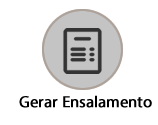
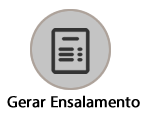
Efeitos hover.

diff --git a/LocusView/src/view/MenuPrincipal.java b/LocusView/src/view/MenuPrincipal.java
@@ -87,15 +87,55 @@ public class MenuPrincipal extends javax.swing.JFrame {
         jLabel1.setMinimumSize(new java.awt.Dimension(50, 70));
         jLabel1.setPreferredSize(new java.awt.Dimension(50, 70));
 
-        jLabel15.setIcon(new javax.swing.ImageIcon(getClass().getResource("/images/menu-superior-professor-selecionado.fw.png"))); // NOI18N
+        jLabel15.setIcon(new javax.swing.ImageIcon(getClass().getResource("/images/icon_prof.png"))); // NOI18N
+        jLabel15.addMouseListener(new java.awt.event.MouseAdapter() {
+            public void mouseEntered(java.awt.event.MouseEvent evt) {
+                jLabel15MouseEntered(evt);
+            }
+            public void mouseExited(java.awt.event.MouseEvent evt) {
+                jLabel15MouseExited(evt);
+            }
+        });
 
         jLabel16.setIcon(new javax.swing.ImageIcon(getClass().getResource("/images/icon_turma.png"))); // NOI18N
+        jLabel16.addMouseListener(new java.awt.event.MouseAdapter() {
+            public void mouseEntered(java.awt.event.MouseEvent evt) {
+                jLabel16MouseEntered(evt);
+            }
+            public void mouseExited(java.awt.event.MouseEvent evt) {
+                jLabel16MouseExited(evt);
+            }
+        });
 
         jLabel17.setIcon(new javax.swing.ImageIcon(getClass().getResource("/images/icon_sala.png"))); // NOI18N
+        jLabel17.addMouseListener(new java.awt.event.MouseAdapter() {
+            public void mouseEntered(java.awt.event.MouseEvent evt) {
+                jLabel17MouseEntered(evt);
+            }
+            public void mouseExited(java.awt.event.MouseEvent evt) {
+                jLabel17MouseExited(evt);
+            }
+        });
 
         jLabel4.setIcon(new javax.swing.ImageIcon(getClass().getResource("/images/icon_escola.png"))); // NOI18N
+        jLabel4.addMouseListener(new java.awt.event.MouseAdapter() {
+            public void mouseEntered(java.awt.event.MouseEvent evt) {
+                jLabel4MouseEntered(evt);
+            }
+            public void mouseExited(java.awt.event.MouseEvent evt) {
+                jLabel4MouseExited(evt);
+            }
+        });
 
         jLabel2.setIcon(new javax.swing.ImageIcon(getClass().getResource("/images/icon_ensalamento.png"))); // NOI18N
+        jLabel2.addMouseListener(new java.awt.event.MouseAdapter() {
+            public void mouseEntered(java.awt.event.MouseEvent evt) {
+                jLabel2MouseEntered(evt);
+            }
+            public void mouseExited(java.awt.event.MouseEvent evt) {
+                jLabel2MouseExited(evt);
+            }
+        });
 
         javax.swing.GroupLayout jPanel1Layout = new javax.swing.GroupLayout(jPanel1);
         jPanel1.setLayout(jPanel1Layout);
@@ -160,6 +200,58 @@ public class MenuPrincipal extends javax.swing.JFrame {
 
         pack();
     }// </editor-fold>//GEN-END:initComponents
+
+    private void jLabel15MouseEntered(java.awt.event.MouseEvent evt) {//GEN-FIRST:event_jLabel15MouseEntered
+        
+        // Caso o usuário passe o mouse em cima, exibe essa imagem.
+        jLabel15.setIcon(new javax.swing.ImageIcon(getClass().getResource("/images/menu-superior-professor-selecionado.fw.png")));
+    }//GEN-LAST:event_jLabel15MouseEntered
+
+    private void jLabel15MouseExited(java.awt.event.MouseEvent evt) {//GEN-FIRST:event_jLabel15MouseExited
+        
+        // Caso o usuário tire o mouse de cima, volta a exibir a imagem anterior.
+        jLabel15.setIcon(new javax.swing.ImageIcon(getClass().getResource("/images/icon_prof.png")));
+    }//GEN-LAST:event_jLabel15MouseExited
+
+    private void jLabel16MouseEntered(java.awt.event.MouseEvent evt) {//GEN-FIRST:event_jLabel16MouseEntered
+        // Caso o usuário passe o mouse em cima, exibe essa imagem.
+        jLabel16.setIcon(new javax.swing.ImageIcon(getClass().getResource("/images/menu-superior-turmas0selecionado-1.fw.png")));
+    }//GEN-LAST:event_jLabel16MouseEntered
+
+    private void jLabel16MouseExited(java.awt.event.MouseEvent evt) {//GEN-FIRST:event_jLabel16MouseExited
+        // Caso o usuário tire o mouse de cima, volta a exibir a imagem anterior.
+        jLabel16.setIcon(new javax.swing.ImageIcon(getClass().getResource("/images/icon_turma.png")));
+    }//GEN-LAST:event_jLabel16MouseExited
+
+    private void jLabel17MouseEntered(java.awt.event.MouseEvent evt) {//GEN-FIRST:event_jLabel17MouseEntered
+        // Caso o usuário passe o mouse em cima, exibe essa imagem.
+        jLabel17.setIcon(new javax.swing.ImageIcon(getClass().getResource("/images/menu-superior-salas-selecionado.fw.png")));
+    }//GEN-LAST:event_jLabel17MouseEntered
+
+    private void jLabel17MouseExited(java.awt.event.MouseEvent evt) {//GEN-FIRST:event_jLabel17MouseExited
+        // Caso o usuário tire o mouse de cima, volta a exibir a imagem anterior.
+        jLabel17.setIcon(new javax.swing.ImageIcon(getClass().getResource("/images/icon_sala.png")));
+    }//GEN-LAST:event_jLabel17MouseExited
+
+    private void jLabel4MouseEntered(java.awt.event.MouseEvent evt) {//GEN-FIRST:event_jLabel4MouseEntered
+        // Caso o usuário passe o mouse em cima, exibe essa imagem.
+        jLabel4.setIcon(new javax.swing.ImageIcon(getClass().getResource("/images/menu-superior-escola-selecionado.fw.png")));
+    }//GEN-LAST:event_jLabel4MouseEntered
+
+    private void jLabel4MouseExited(java.awt.event.MouseEvent evt) {//GEN-FIRST:event_jLabel4MouseExited
+        // Caso o usuário tire o mouse de cima, volta a exibir a imagem anterior.
+        jLabel4.setIcon(new javax.swing.ImageIcon(getClass().getResource("/images/icon_escola.png")));
+    }//GEN-LAST:event_jLabel4MouseExited
+
+    private void jLabel2MouseEntered(java.awt.event.MouseEvent evt) {//GEN-FIRST:event_jLabel2MouseEntered
+        // Caso o usuário passe o mouse em cima, exibe essa imagem.
+        jLabel2.setIcon(new javax.swing.ImageIcon(getClass().getResource("/images/menu-superior-ensalamento-selecionado.fw.png")));
+    }//GEN-LAST:event_jLabel2MouseEntered
+
+    private void jLabel2MouseExited(java.awt.event.MouseEvent evt) {//GEN-FIRST:event_jLabel2MouseExited
+        // Caso o usuário tire o mouse de cima, volta a exibir a imagem anterior.
+        jLabel2.setIcon(new javax.swing.ImageIcon(getClass().getResource("/images/icon_ensalamento.png")));
+    }//GEN-LAST:event_jLabel2MouseExited
 
     /**
      * @param args the command line arguments

diff --git a/LocusView/src/view/TelaProfessores.java b/LocusView/src/view/TelaProfessores.java
@@ -57,12 +57,47 @@ public class TelaProfessores extends javax.swing.JFrame {
         jLabel8.setIcon(new javax.swing.ImageIcon(getClass().getResource("/images/menu-superior-professor-selecionado.fw.png"))); // NOI18N
 
         jLabel9.setIcon(new javax.swing.ImageIcon(getClass().getResource("/images/icon_turma.png"))); // NOI18N
+        jLabel9.addMouseListener(new java.awt.event.MouseAdapter() {
+            public void mouseEntered(java.awt.event.MouseEvent evt) {
+                jLabel9MouseEntered(evt);
+            }
+            public void mouseExited(java.awt.event.MouseEvent evt) {
+                jLabel9MouseExited(evt);
+            }
+        });
 
         jLabel10.setIcon(new javax.swing.ImageIcon(getClass().getResource("/images/icon_sala.png"))); // NOI18N
+        jLabel10.addMouseListener(new java.awt.event.MouseAdapter() {
+            public void mouseEntered(java.awt.event.MouseEvent evt) {
+                jLabel10MouseEntered(evt);
+            }
+            public void mouseExited(java.awt.event.MouseEvent evt) {
+                jLabel10MouseExited(evt);
+            }
+            public void mousePressed(java.awt.event.MouseEvent evt) {
+                jLabel10MousePressed(evt);
+            }
+        });
 
         jLabel4.setIcon(new javax.swing.ImageIcon(getClass().getResource("/images/icon_escola.png"))); // NOI18N
+        jLabel4.addMouseListener(new java.awt.event.MouseAdapter() {
+            public void mouseEntered(java.awt.event.MouseEvent evt) {
+                jLabel4MouseEntered(evt);
+            }
+            public void mouseExited(java.awt.event.MouseEvent evt) {
+                jLabel4MouseExited(evt);
+            }
+        });
 
         jLabel2.setIcon(new javax.swing.ImageIcon(getClass().getResource("/images/icon_ensalamento.png"))); // NOI18N
+        jLabel2.addMouseListener(new java.awt.event.MouseAdapter() {
+            public void mouseEntered(java.awt.event.MouseEvent evt) {
+                jLabel2MouseEntered(evt);
+            }
+            public void mouseExited(java.awt.event.MouseEvent evt) {
+                jLabel2MouseExited(evt);
+            }
+        });
 
         javax.swing.GroupLayout jPanel1Layout = new javax.swing.GroupLayout(jPanel1);
         jPanel1.setLayout(jPanel1Layout);
@@ -172,6 +207,50 @@ public class TelaProfessores extends javax.swing.JFrame {
     private void jTextField1ActionPerformed(java.awt.event.ActionEvent evt) {//GEN-FIRST:event_jTextField1ActionPerformed
         // TODO add your handling code here:
     }//GEN-LAST:event_jTextField1ActionPerformed
+
+    private void jLabel9MouseEntered(java.awt.event.MouseEvent evt) {//GEN-FIRST:event_jLabel9MouseEntered
+        // Caso o usuário passe o mouse em cima, exibe essa imagem.
+        jLabel9.setIcon(new javax.swing.ImageIcon(getClass().getResource("/images/menu-superior-turmas0selecionado-1.fw.png")));
+    }//GEN-LAST:event_jLabel9MouseEntered
+
+    private void jLabel9MouseExited(java.awt.event.MouseEvent evt) {//GEN-FIRST:event_jLabel9MouseExited
+        // Caso o usuário tire o mouse de cima, volta a exibir a imagem anterior.
+        jLabel9.setIcon(new javax.swing.ImageIcon(getClass().getResource("/images/icon_turma.png")));
+    }//GEN-LAST:event_jLabel9MouseExited
+
+    private void jLabel10MouseEntered(java.awt.event.MouseEvent evt) {//GEN-FIRST:event_jLabel10MouseEntered
+         // Caso o usuário passe o mouse em cima, exibe essa imagem.
+        jLabel10.setIcon(new javax.swing.ImageIcon(getClass().getResource("/images/menu-superior-salas-selecionado.fw.png")));
+    }//GEN-LAST:event_jLabel10MouseEntered
+
+    private void jLabel10MousePressed(java.awt.event.MouseEvent evt) {//GEN-FIRST:event_jLabel10MousePressed
+        // TODO add your handling code here:
+    }//GEN-LAST:event_jLabel10MousePressed
+
+    private void jLabel10MouseExited(java.awt.event.MouseEvent evt) {//GEN-FIRST:event_jLabel10MouseExited
+        // Caso o usuário tire o mouse de cima, volta a exibir a imagem anterior.
+        jLabel10.setIcon(new javax.swing.ImageIcon(getClass().getResource("/images/icon_sala.png")));
+    }//GEN-LAST:event_jLabel10MouseExited
+
+    private void jLabel4MouseEntered(java.awt.event.MouseEvent evt) {//GEN-FIRST:event_jLabel4MouseEntered
+        // Caso o usuário passe o mouse em cima, exibe essa imagem.
+        jLabel4.setIcon(new javax.swing.ImageIcon(getClass().getResource("/images/menu-superior-escola-selecionado.fw.png")));
+    }//GEN-LAST:event_jLabel4MouseEntered
+
+    private void jLabel4MouseExited(java.awt.event.MouseEvent evt) {//GEN-FIRST:event_jLabel4MouseExited
+        // Caso o usuário tire o mouse de cima, volta a exibir a imagem anterior.
+        jLabel4.setIcon(new javax.swing.ImageIcon(getClass().getResource("/images/icon_escola.png")));
+    }//GEN-LAST:event_jLabel4MouseExited
+
+    private void jLabel2MouseEntered(java.awt.event.MouseEvent evt) {//GEN-FIRST:event_jLabel2MouseEntered
+        // Caso o usuário passe o mouse em cima, exibe essa imagem.
+        jLabel2.setIcon(new javax.swing.ImageIcon(getClass().getResource("/images/menu-superior-ensalamento-selecionado.fw.png")));
+    }//GEN-LAST:event_jLabel2MouseEntered
+
+    private void jLabel2MouseExited(java.awt.event.MouseEvent evt) {//GEN-FIRST:event_jLabel2MouseExited
+        // Caso o usuário tire o mouse de cima, volta a exibir a imagem anterior.
+        jLabel2.setIcon(new javax.swing.ImageIcon(getClass().getResource("/images/icon_ensalamento.png")));
+    }//GEN-LAST:event_jLabel2MouseExited
 
     /**
      * @param args the command line arguments
